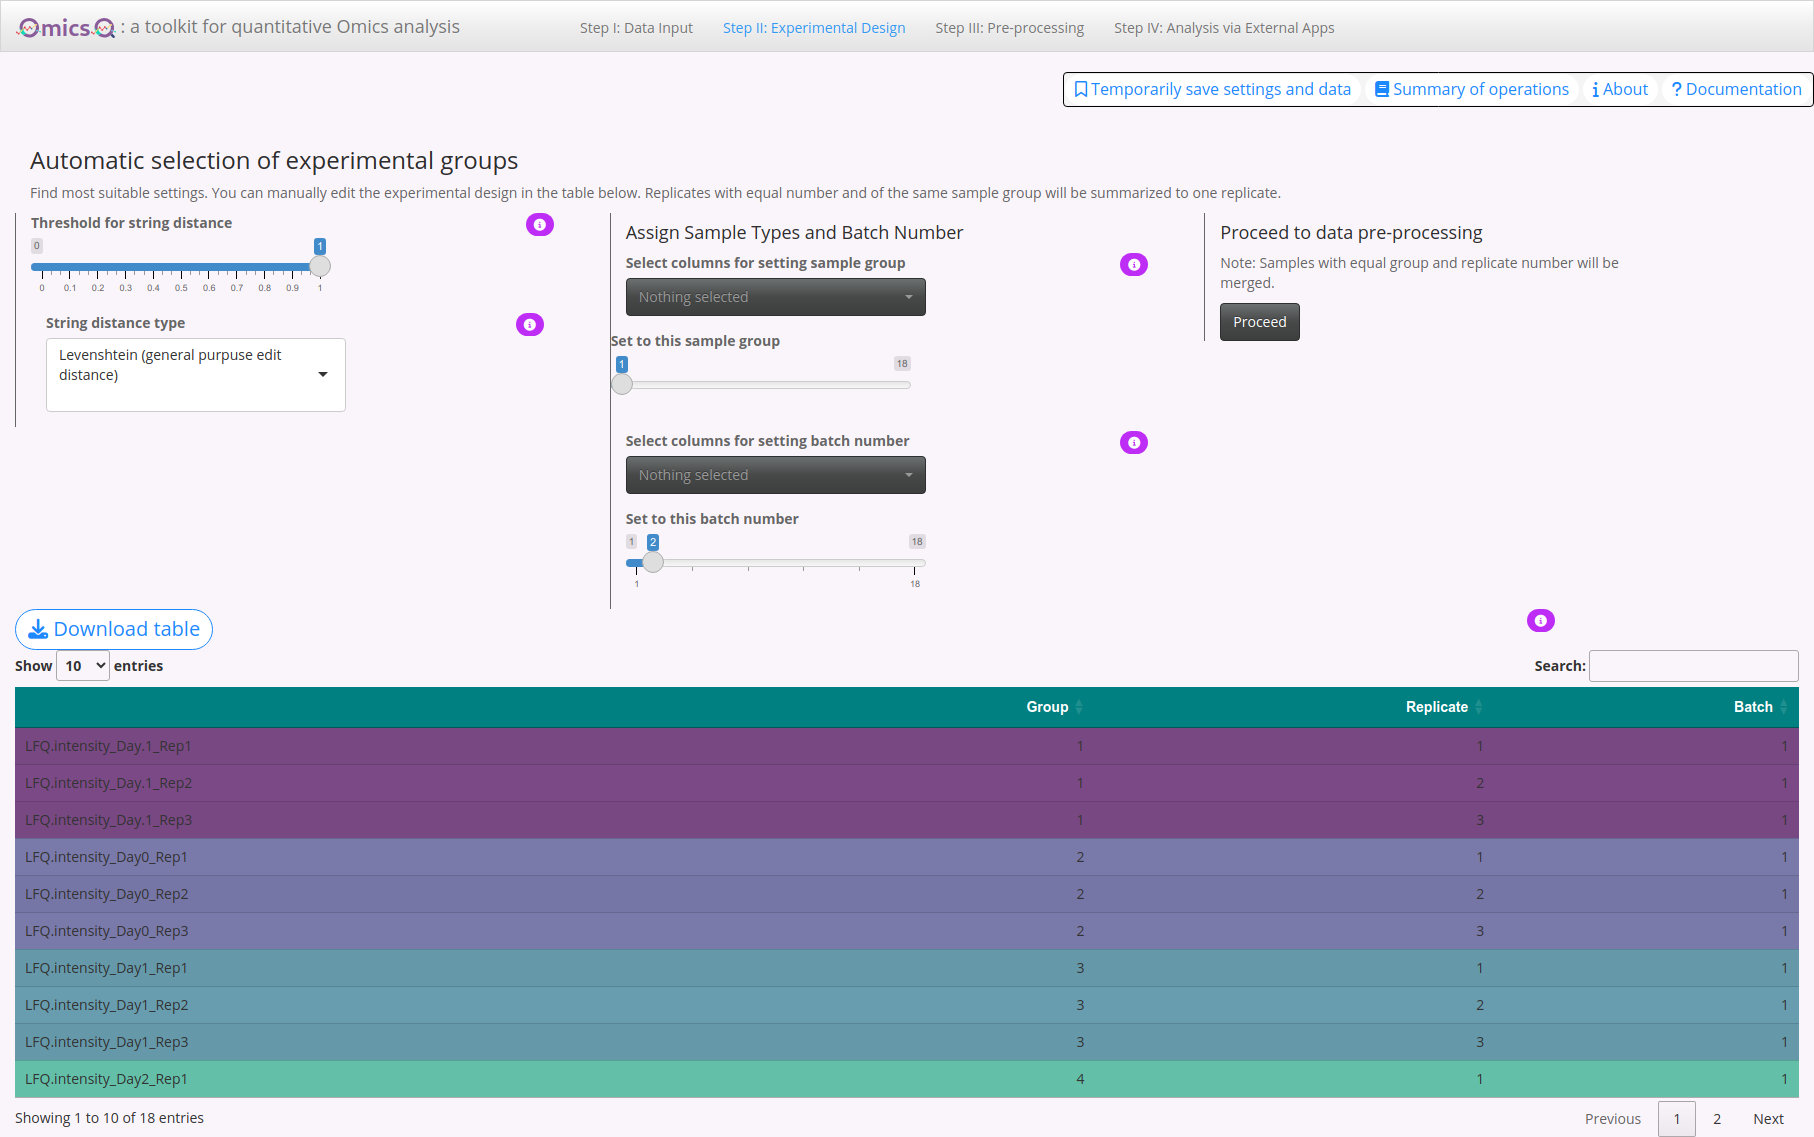
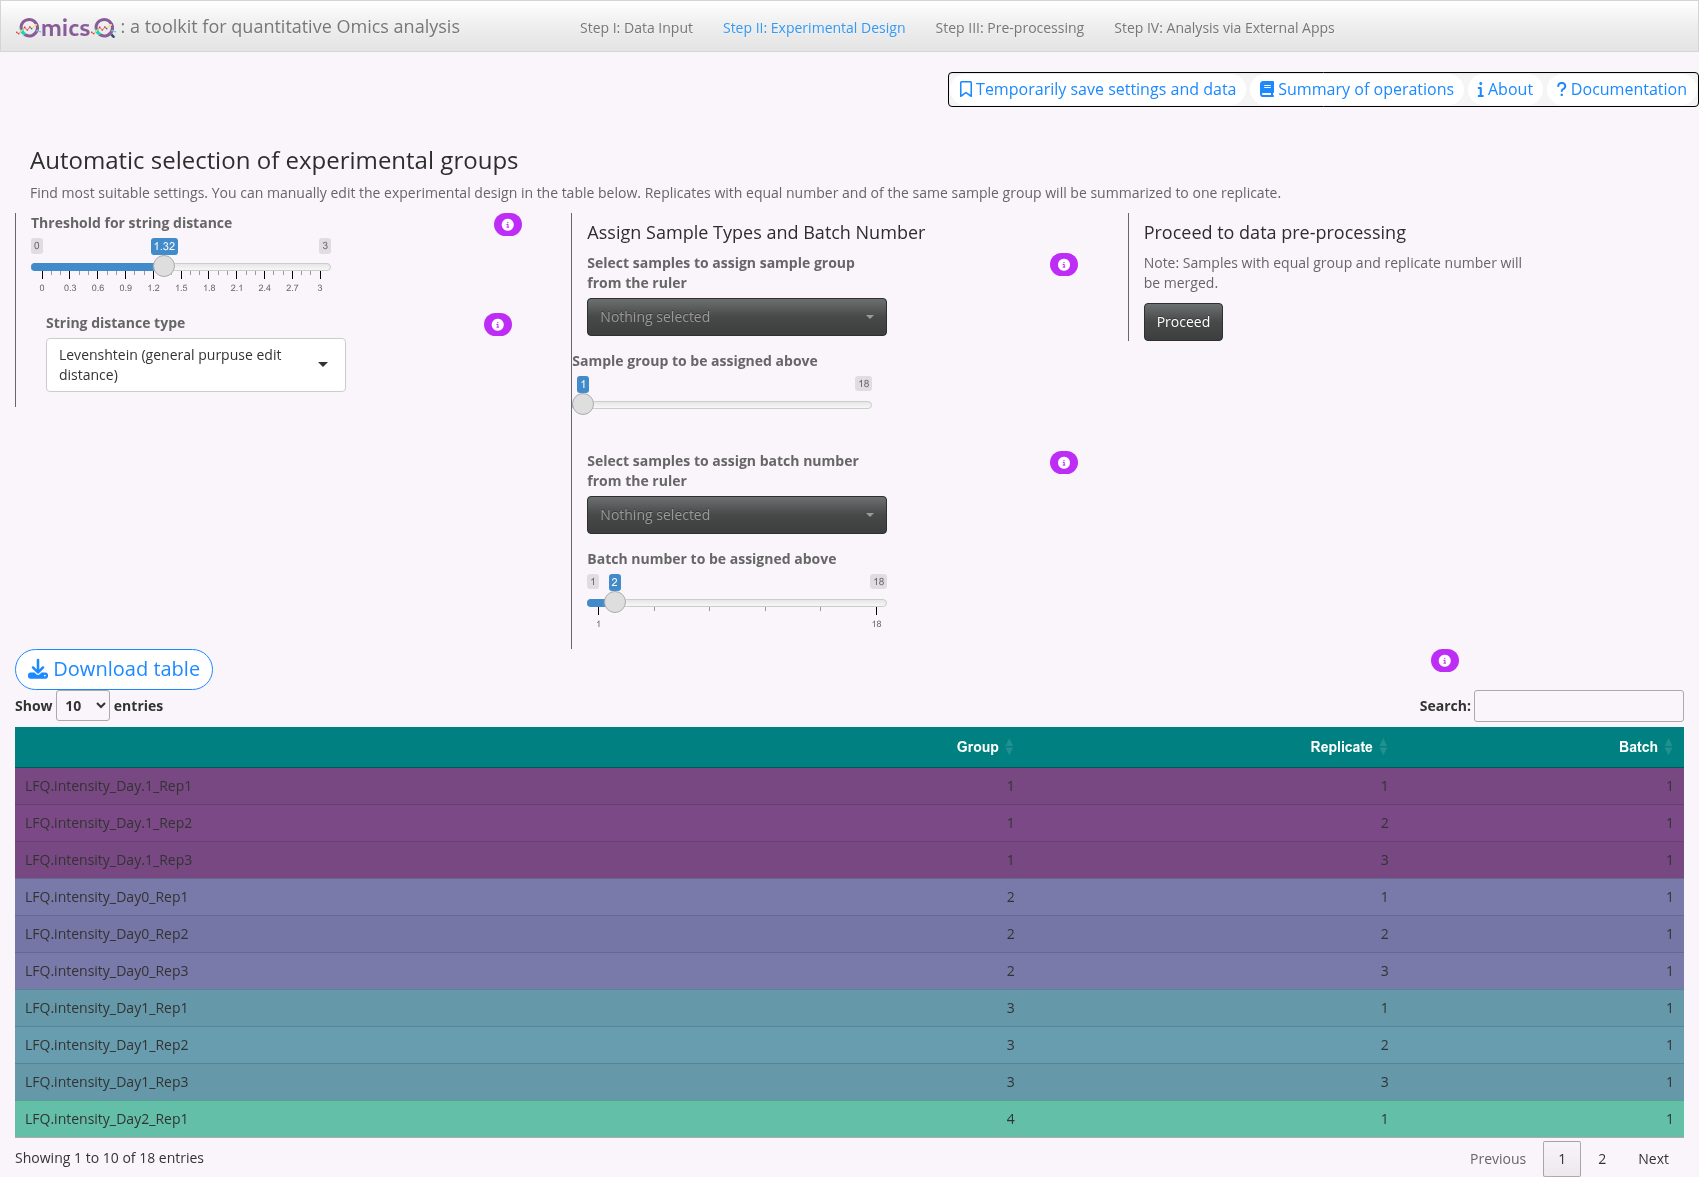
updated tutorial pics

diff --git a/www/tutorial/Tutorial.html b/www/tutorial/Tutorial.html
@@ -7,7 +7,7 @@
 <meta name="viewport" content="width=device-width, initial-scale=1.0, user-scalable=yes">
 
 <meta name="author" content="Veit Schwämmle">
-<meta name="dcterms.date" content="2025-09-09">
+<meta name="dcterms.date" content="2025-10-13">
 
 <title>OmicsQ — Documentation and Tutorial</title>
 <style>
@@ -109,7 +109,7 @@ ul.task-list li input[type="checkbox"] {
     <div>
     <div class="quarto-title-meta-heading">Published</div>
     <div class="quarto-title-meta-contents">
-      <p class="date">September 9, 2025</p>
+      <p class="date">October 13, 2025</p>
     </div>
   </div>
   
